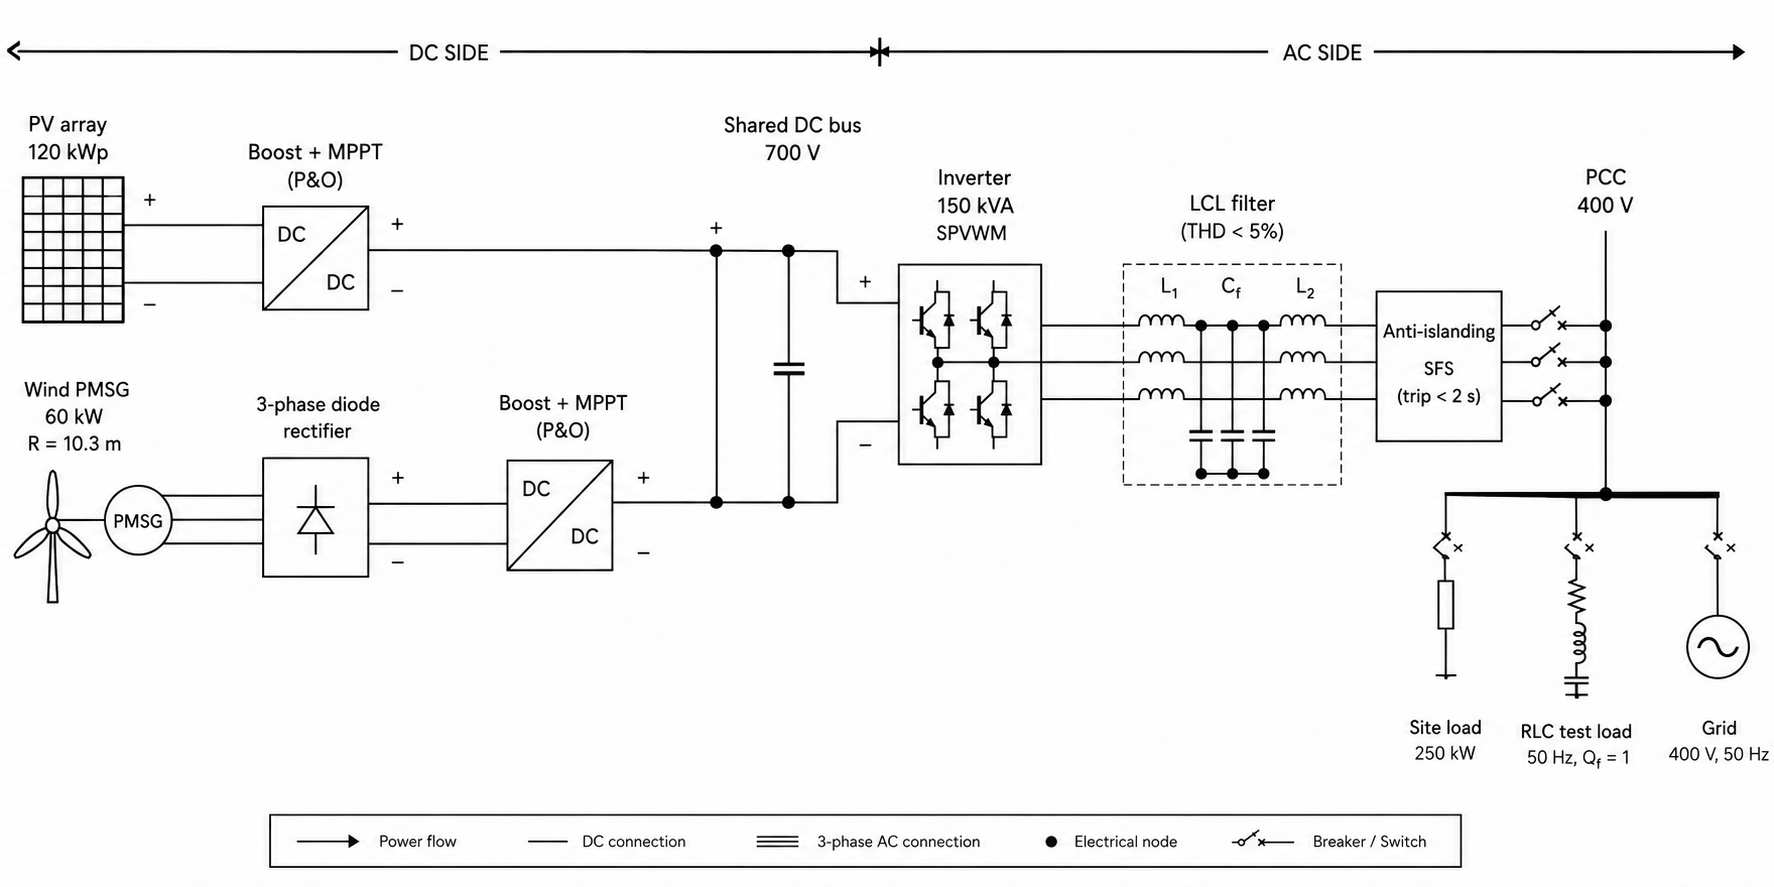
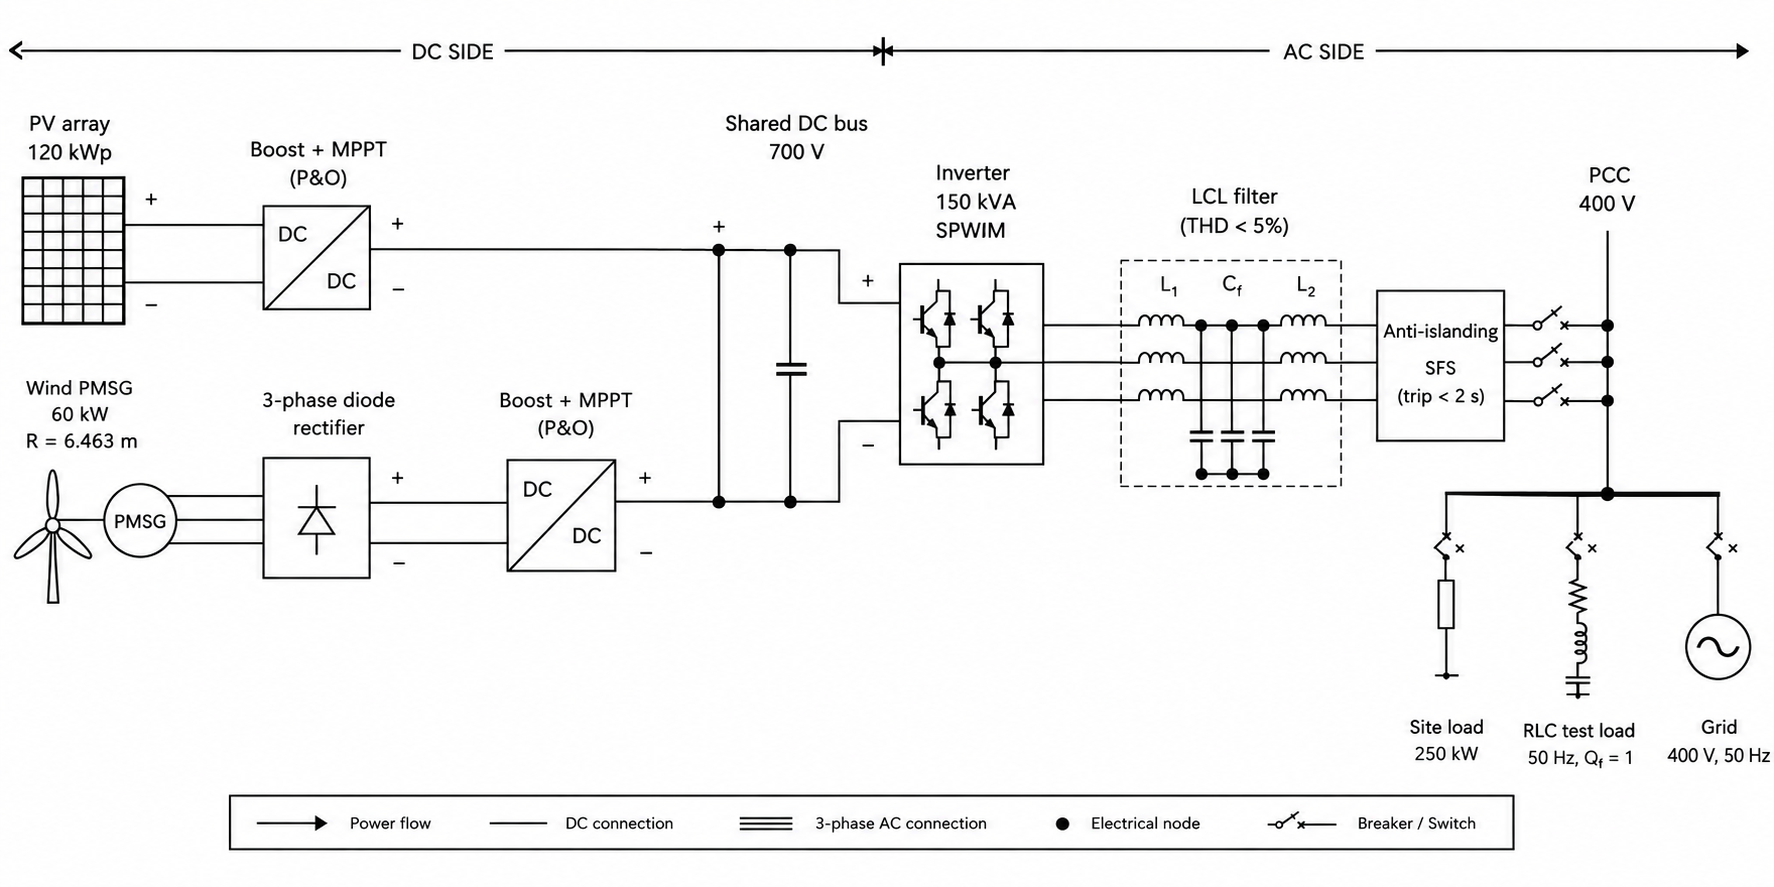
Replace the SLD with the corrected drawing; clear the rotor-radius erratum
The wind block now reads R = 6.463 m, matching params/windParams.m and the
models on main. The README erratum added in 395484c is removed because the
drawing it warned about no longer exists.

diff --git a/README.md b/README.md
@@ -23,11 +23,6 @@ grid, with a 250 kW site load and an RLC test load at the PCC.
 A fuller single-line diagram, with the converter topology, LCL filter, breakers and
 symbol legend, is at [docs/single-line-diagram.png](docs/single-line-diagram.png).
 
-> **Erratum on that SLD:** the wind block is labelled `R = 10.3 m`. The correct rotor
-> radius is **6.46 m** — 10.3 m was derived at a 10 m/s rated wind speed, but the spec
-> uses 12 m/s. `params/windParams.m` and `scripts/wind_model_check.m` are correct.
-> Build to 6.46 m. The label will be fixed on the next revision of the drawing.
-
 The 150 kVA rating is deliberate: it sits under the 200 kVA ceiling of
 AS/NZS 4777.2, so that standard — and every success criterion below — still applies.
 See [docs/decisions.md](docs/decisions.md) for why this scale, why one inverter, and
